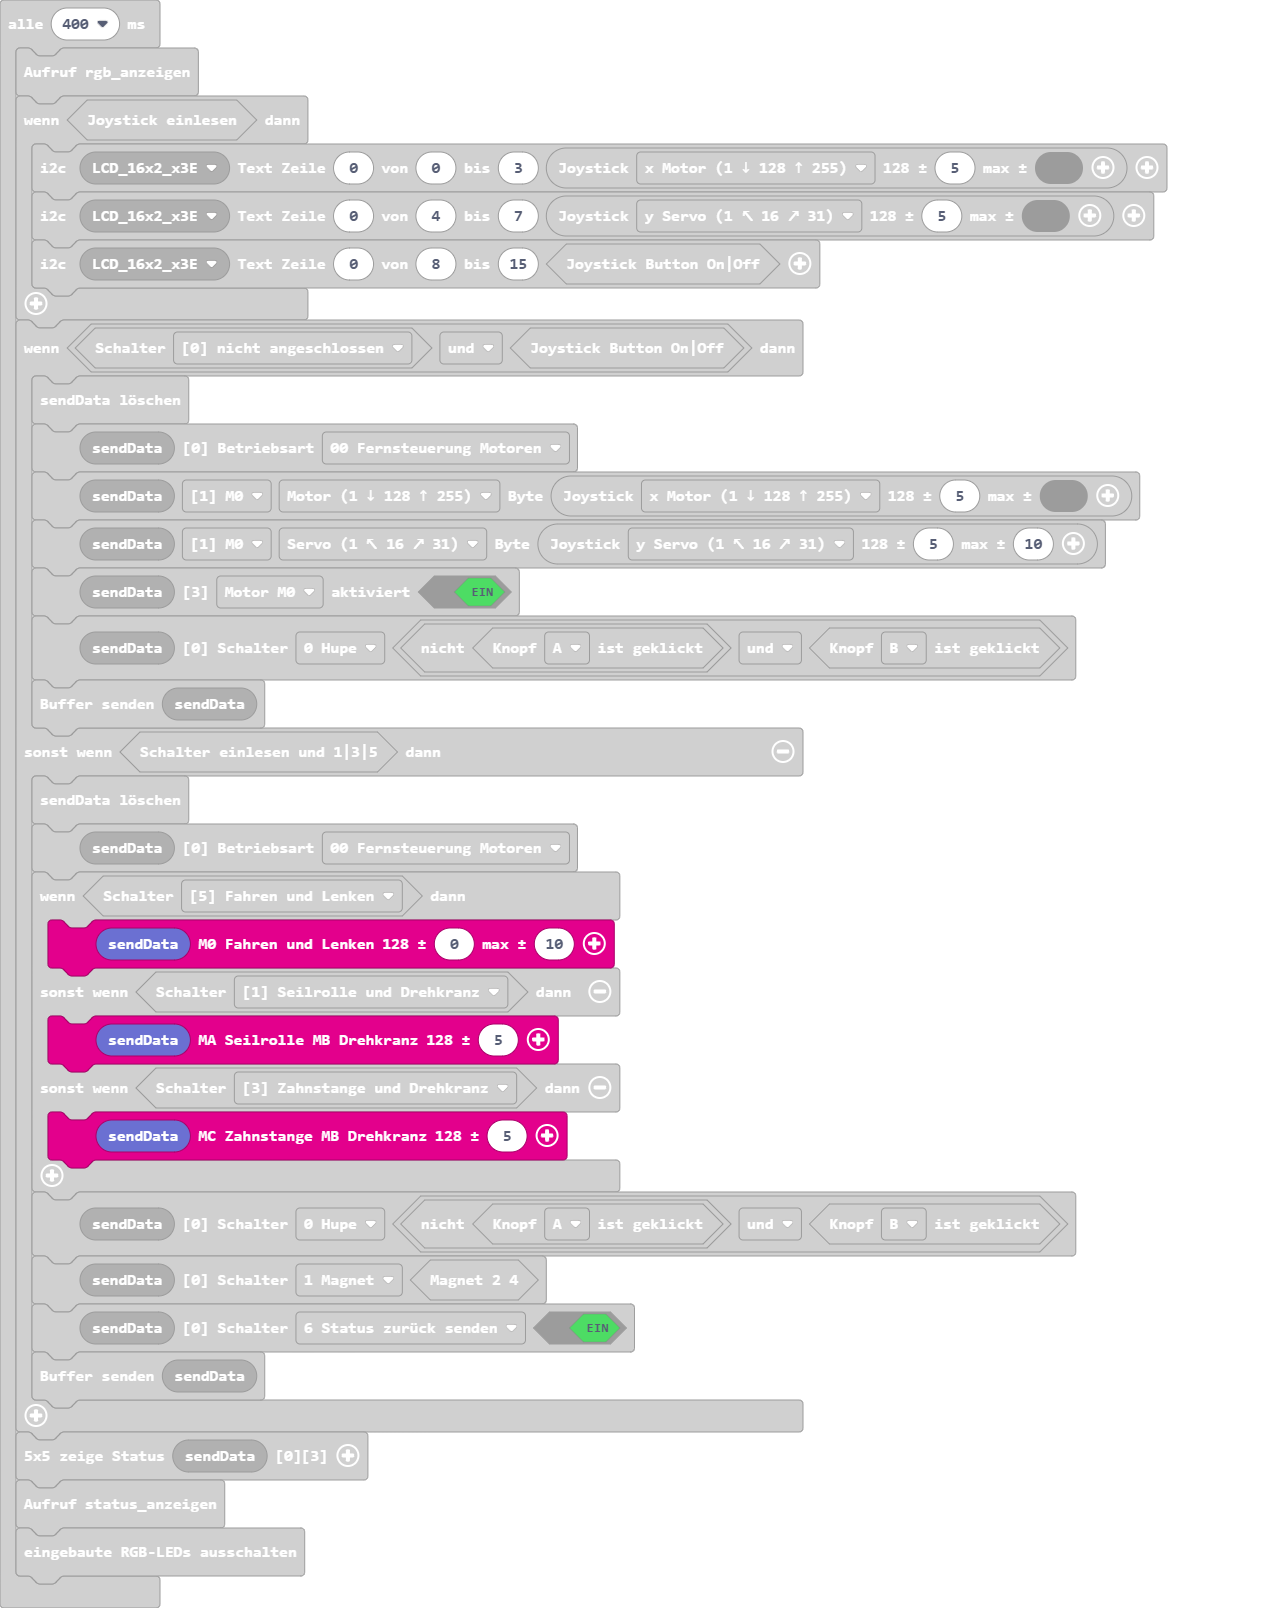
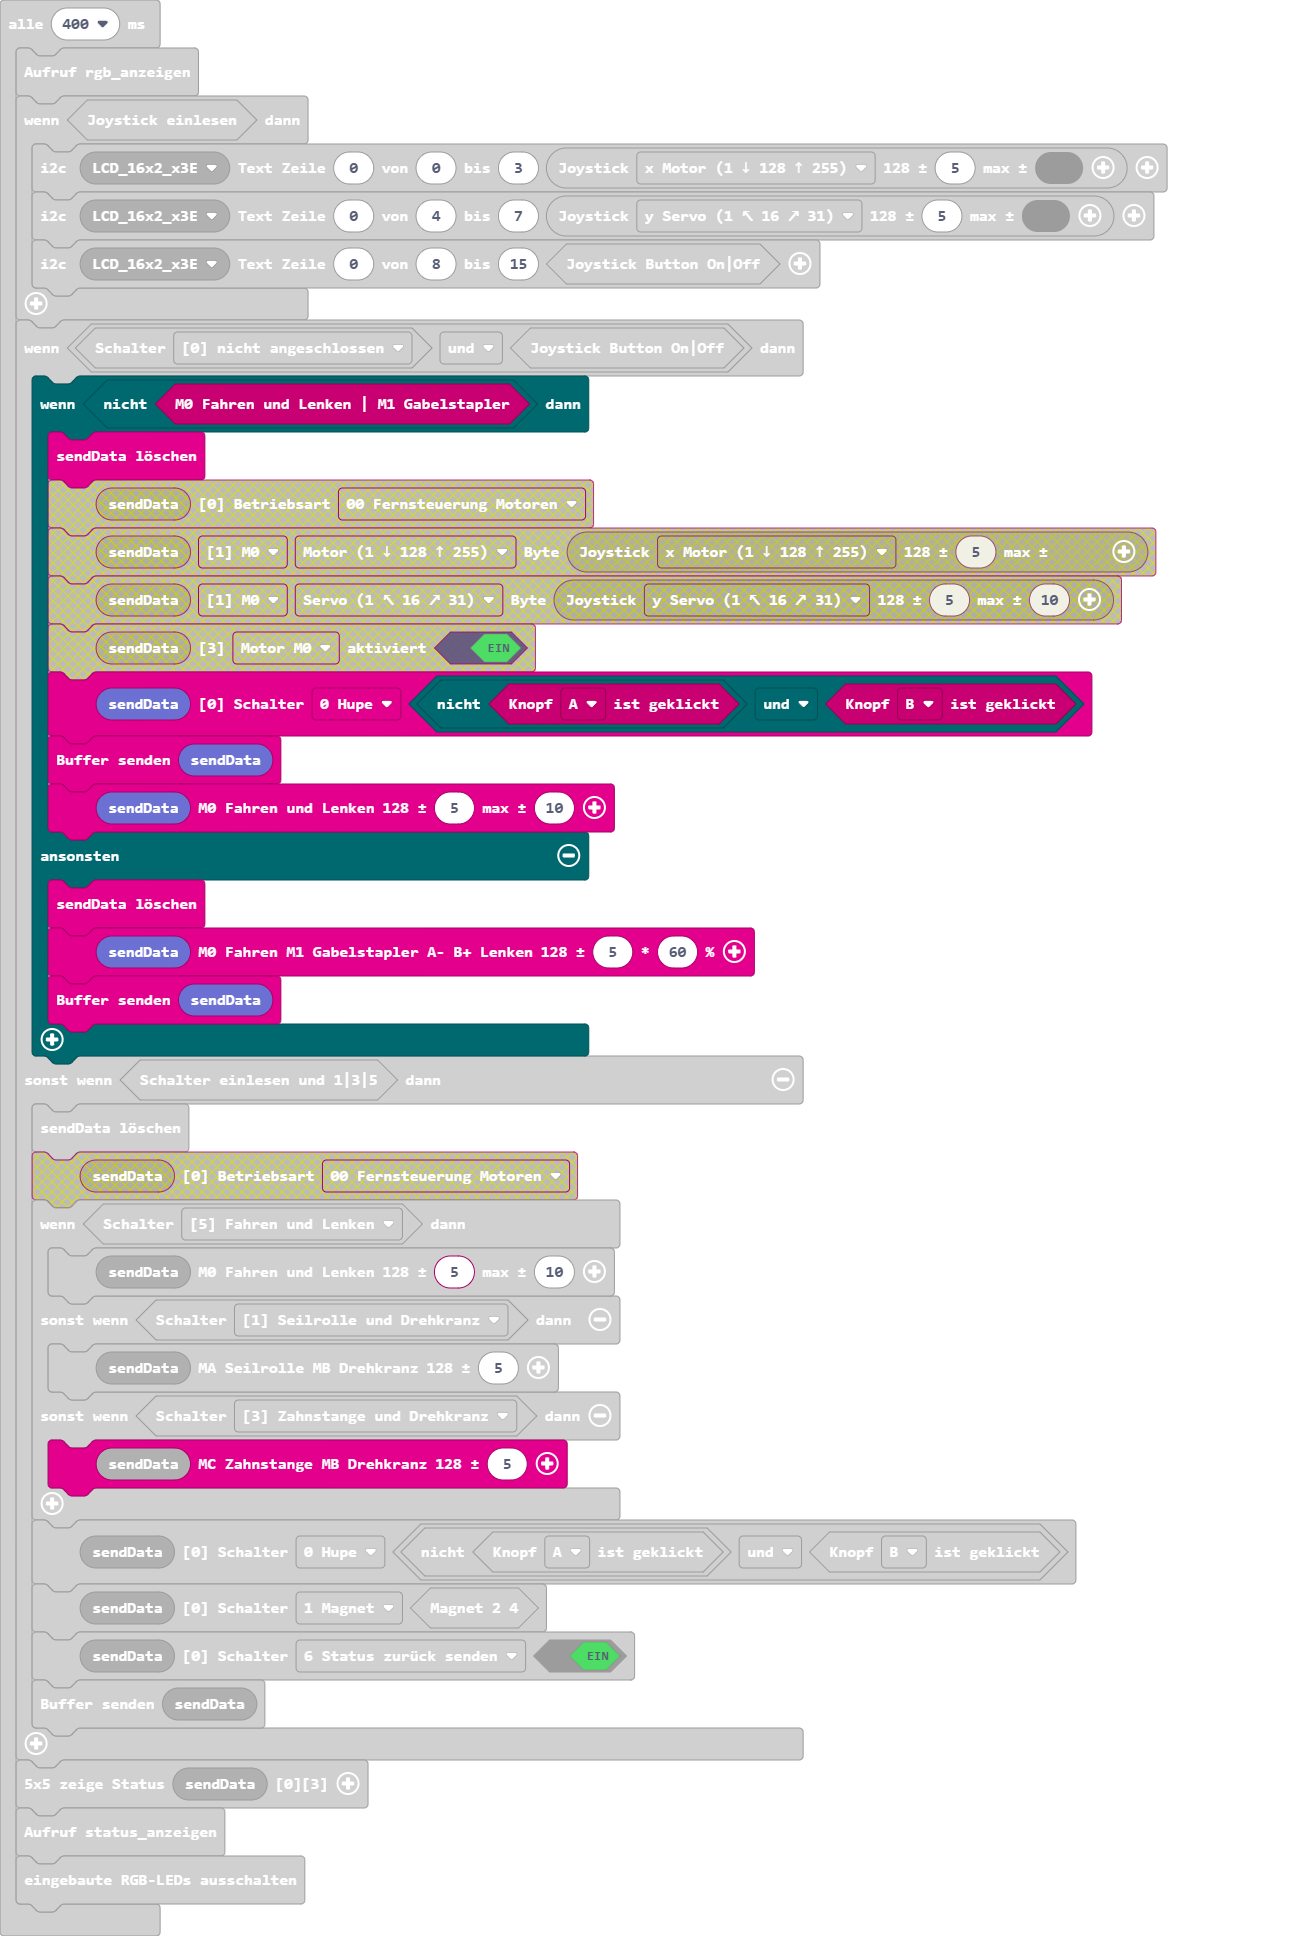
Aktualisiere pxt.json, main.blocks, main.ts

diff --git a/main.ts b/main.ts
@@ -26,22 +26,24 @@ loops.everyInterval(400, function () {
         lcd16x2rgb.writeText(lcd16x2rgb.lcd16x2_eADDR(lcd16x2rgb.eADDR_LCD.LCD_16x2_x3E), 0, 8, 15, radio.joystickButtonOn())
     }
     if (radio.isSwitch(radio.eStatus.nicht_angeschlossen) && radio.joystickButtonOn()) {
-        radio.fill_sendBuffer19()
-        radio.setBetriebsart(radio.radio_sendBuffer19(), radio.e0Betriebsart.p0)
-        radio.setByte(radio.radio_sendBuffer19(), radio.eBufferPointer.m0, radio.eBufferOffset.b0_Motor, radio.joystickValue(radio.eJoystickValue.xmotor, 5))
-        radio.setByte(radio.radio_sendBuffer19(), radio.eBufferPointer.m0, radio.eBufferOffset.b1_Servo, radio.joystickValue(radio.eJoystickValue.servo16, 5, 10))
-        radio.setaktiviert(radio.radio_sendBuffer19(), radio.e3aktiviert.m0, true)
-        radio.setSchalter(radio.radio_sendBuffer19(), radio.e0Schalter.b0, !(input.buttonIsPressed(Button.A)) && input.buttonIsPressed(Button.B))
-        radio.sendData(radio.radio_sendBuffer19())
+        if (!(radio.getGabelstapler())) {
+            radio.fill_sendBuffer19()
+            radio.sendM0(radio.radio_sendBuffer19(), 5, 10)
+            radio.setSchalter(radio.radio_sendBuffer19(), radio.e0Schalter.b0, !(input.buttonIsPressed(Button.A)) && input.buttonIsPressed(Button.B))
+            radio.sendData(radio.radio_sendBuffer19())
+        } else {
+            radio.fill_sendBuffer19()
+            radio.sendM01(radio.radio_sendBuffer19(), 5, 60)
+            radio.sendData(radio.radio_sendBuffer19())
+        }
     } else if (radio.i2cReadSwitch()) {
         radio.fill_sendBuffer19()
-        radio.setBetriebsart(radio.radio_sendBuffer19(), radio.e0Betriebsart.p0)
         if (radio.isSwitch(radio.eStatus.fahren)) {
-            radio.sendM0(radio.radio_sendBuffer19(), 0, 10)
+            radio.sendM0(radio.radio_sendBuffer19(), 5, 10)
         } else if (radio.isSwitch(radio.eStatus.seilrolle)) {
             radio.sendMAB(radio.radio_sendBuffer19(), 5)
         } else if (radio.isSwitch(radio.eStatus.zahnstange)) {
-            radio.sendMCB(radio.radio_sendBuffer19())
+            radio.sendMCB(radio.radio_sendBuffer19(), 5)
         }
         radio.setSchalter(radio.radio_sendBuffer19(), radio.e0Schalter.b0, !(input.buttonIsPressed(Button.A)) && input.buttonIsPressed(Button.B))
         radio.setSchalter(radio.radio_sendBuffer19(), radio.e0Schalter.b1, radio.getMagnet())
